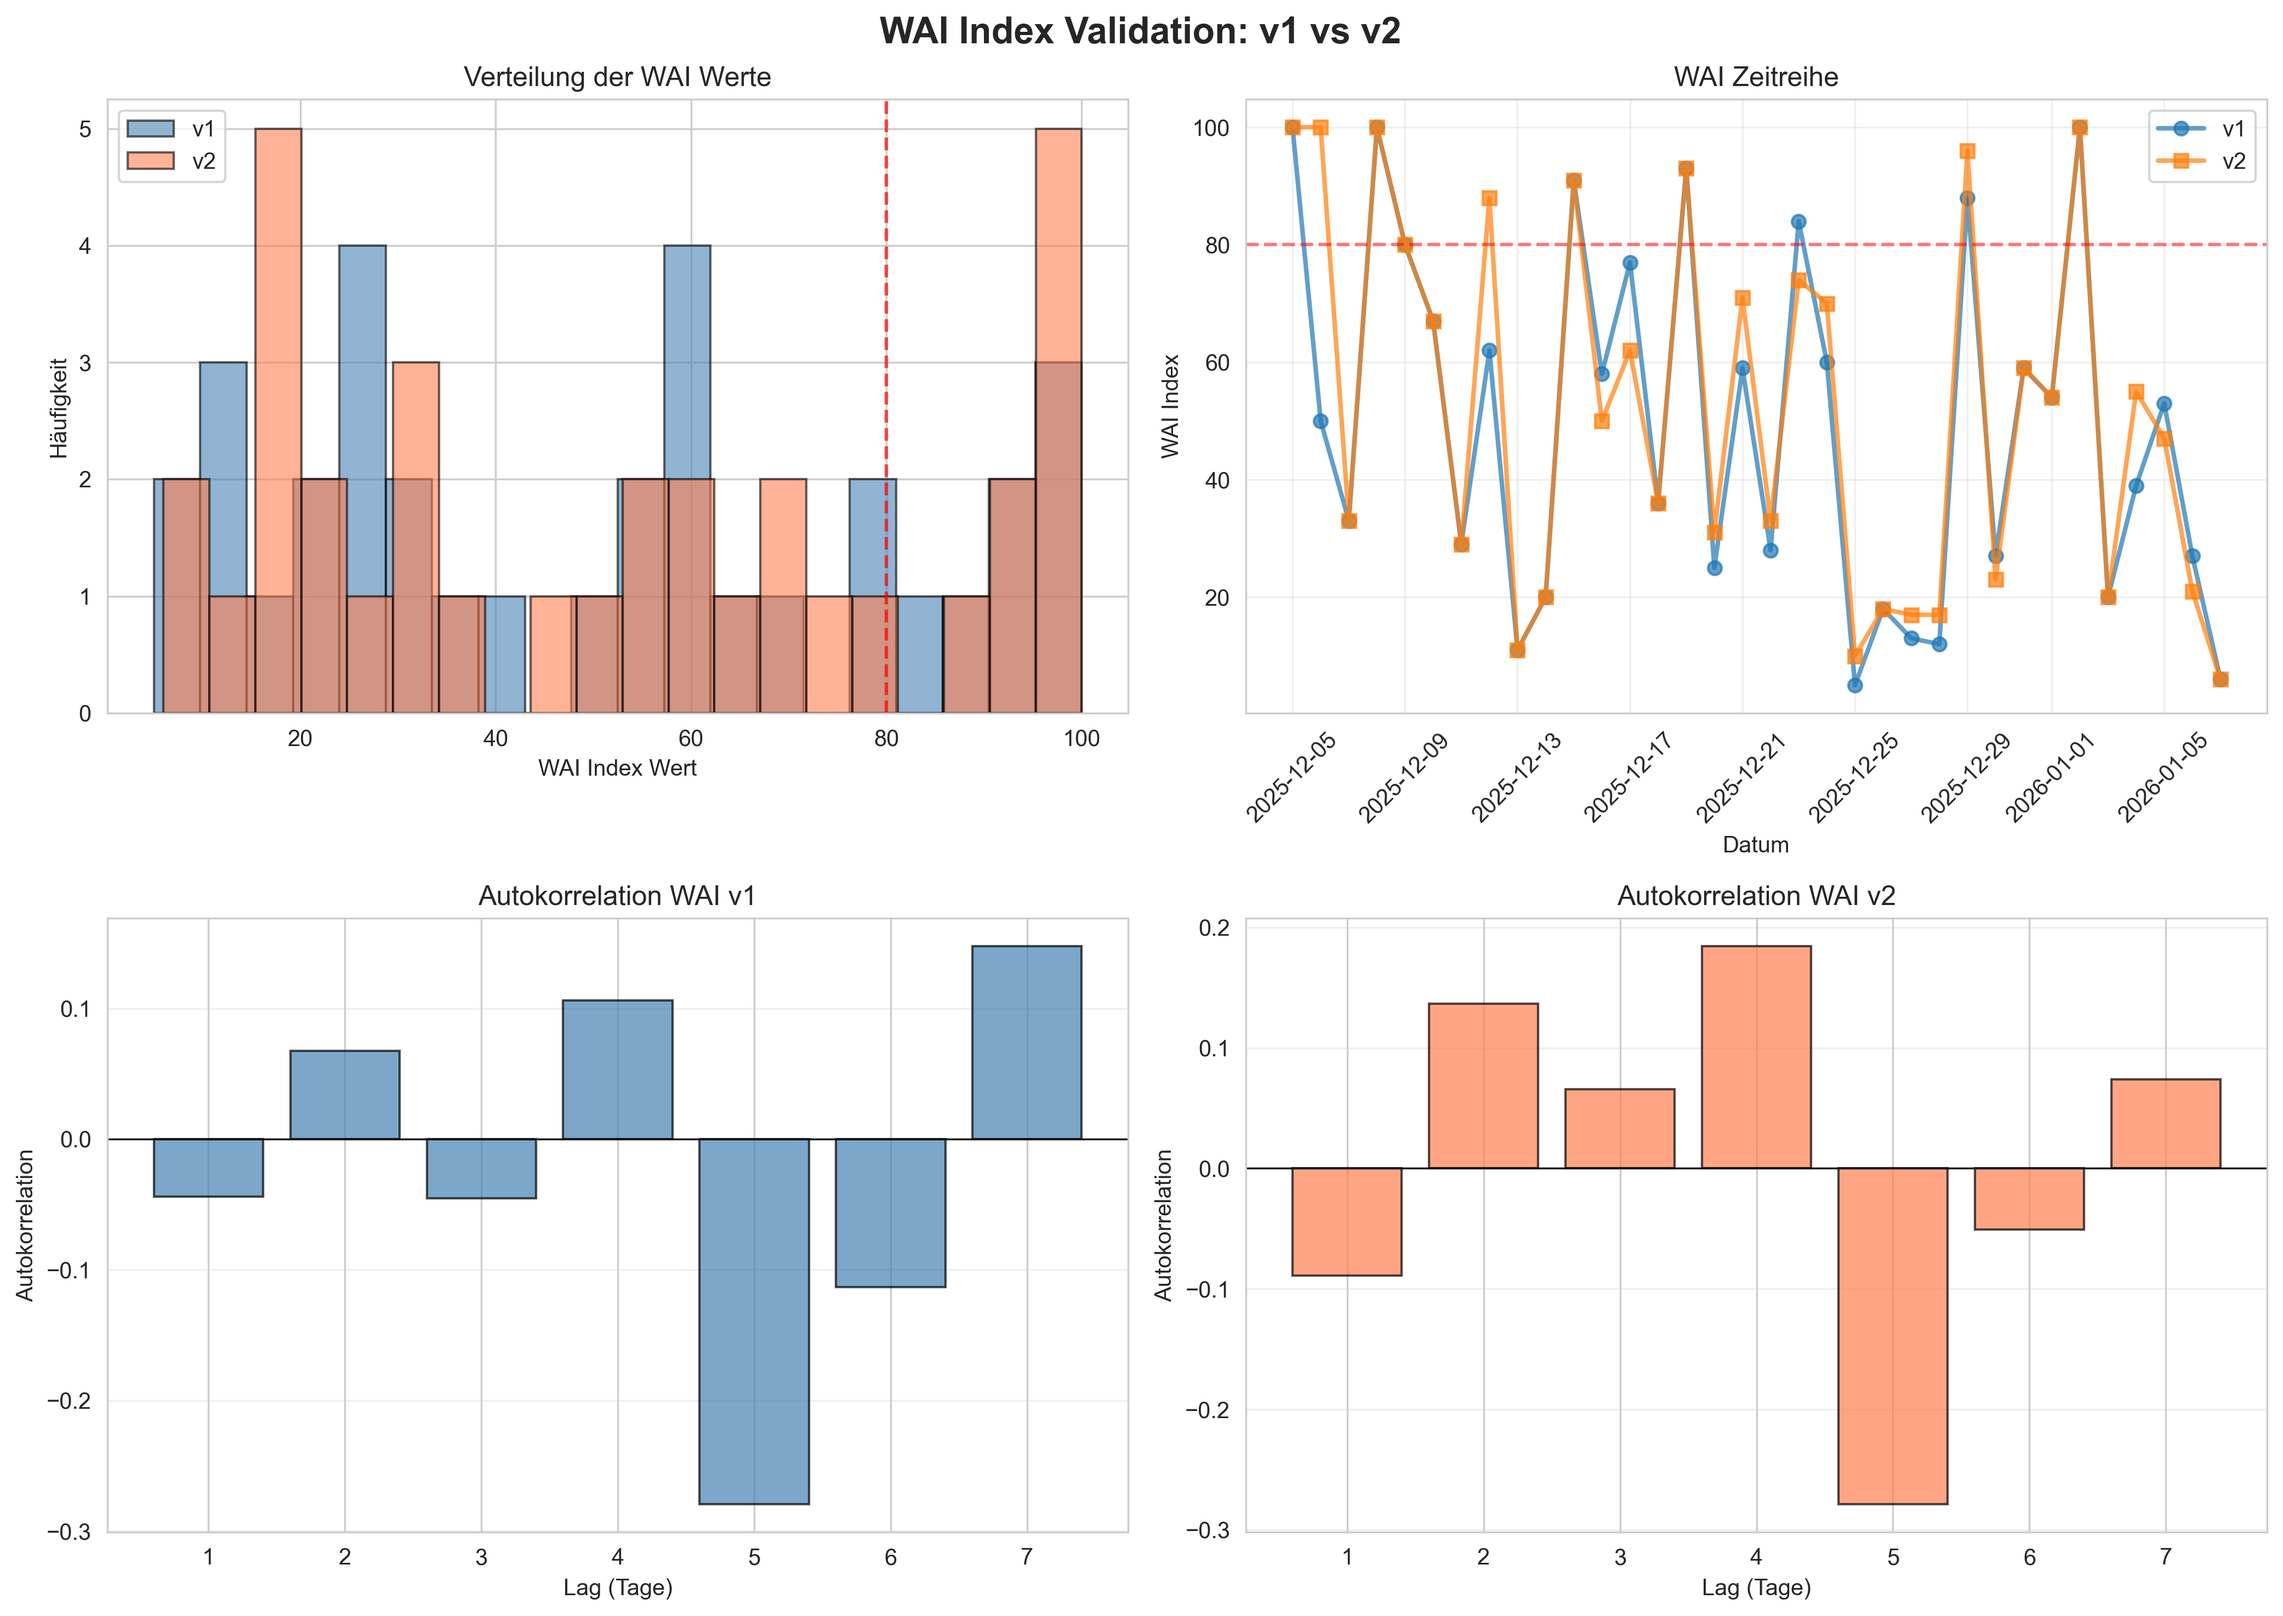
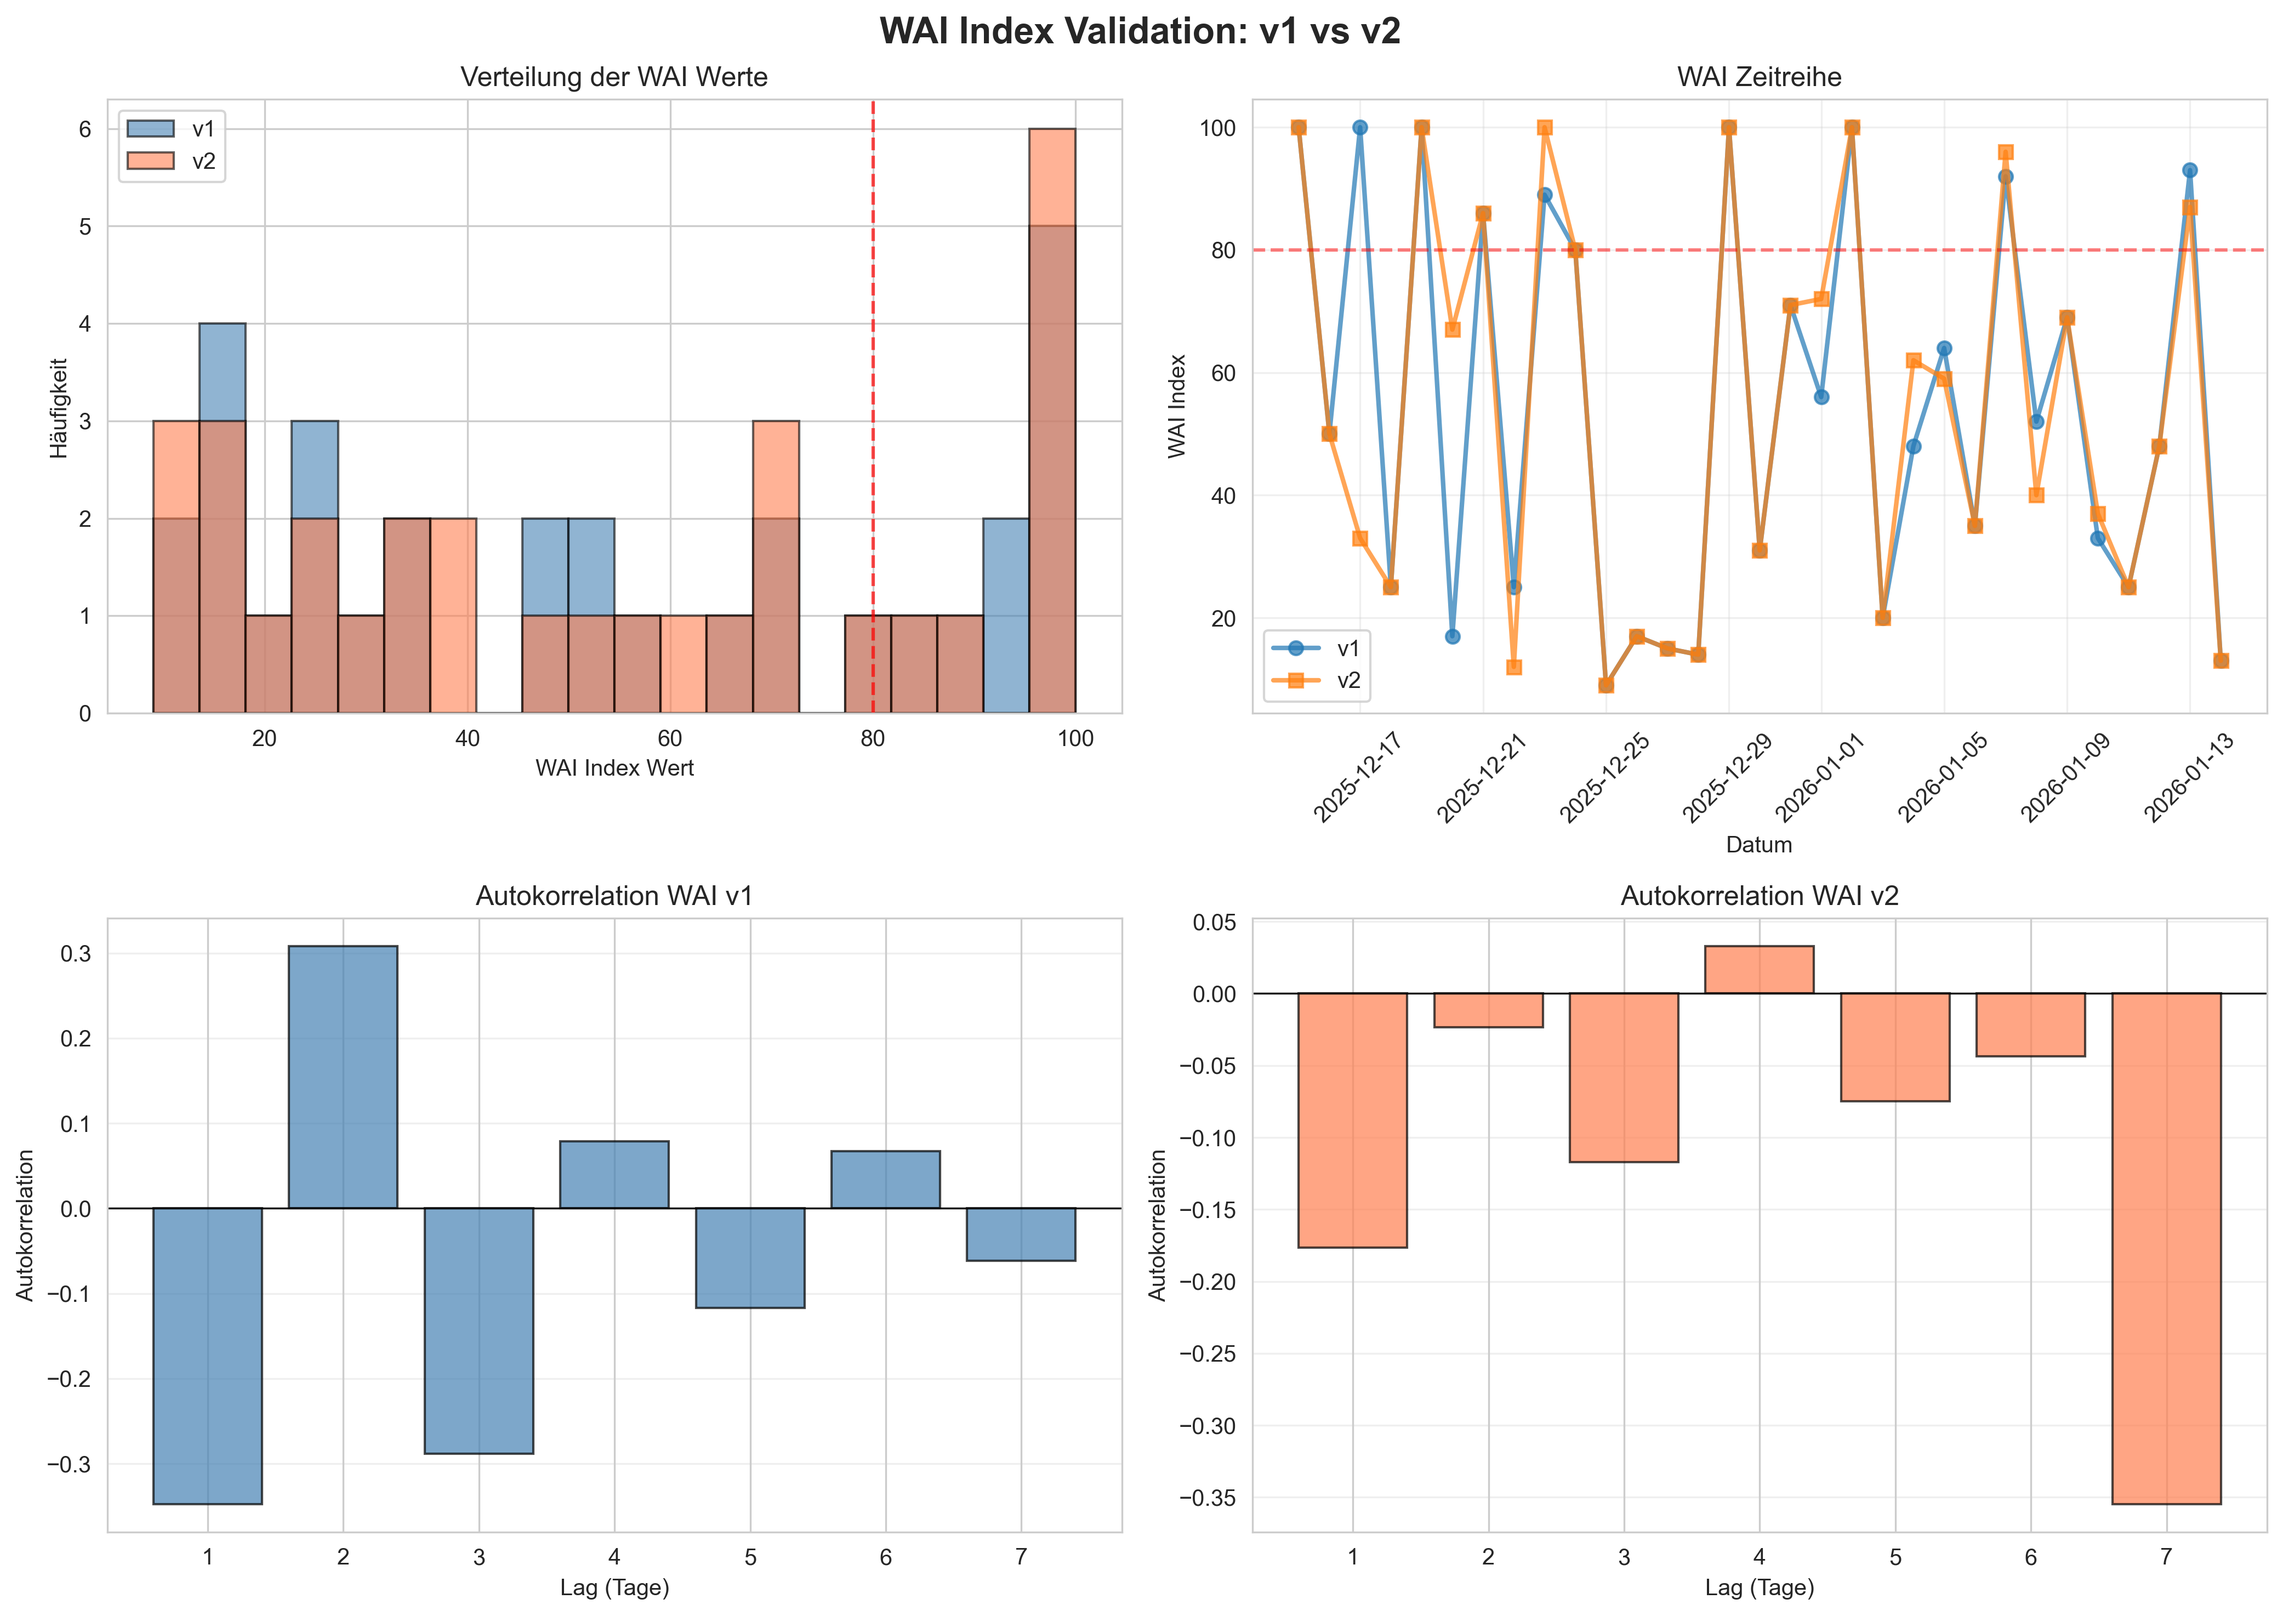
auswertung

diff --git a/analysis/wai_index_validation.py b/analysis/wai_index_validation.py
@@ -29,7 +29,11 @@ def load_data():
 
 def calculate_metrics(df, version='v2'):
     """Berechne Metriken für eine WAI Version"""
-    col = 'wai_index' if version == 'v2' else 'wai_index_v1'
+    # Unterstütze neue Feldnamen (wai / wai_v1) und alte (wai_index / wai_index_v1)
+    col_candidates = ['wai_index', 'wai'] if version == 'v2' else ['wai_index_v1', 'wai_v1']
+    col = next((c for c in col_candidates if c in df.columns), None)
+    if col is None:
+        raise ValueError(f"Keine Spalte für Version {version} gefunden. Erwartet: {col_candidates}")
     
     metrics = {
         'version': version,
@@ -70,14 +74,17 @@ def create_comparison_table(metrics_v1, metrics_v2):
 
 def plot_analysis(df, output_dir):
     """Erstelle Visualisierungen"""
+
+    col_v2 = 'wai_index' if 'wai_index' in df.columns else 'wai'
+    col_v1 = 'wai_index_v1' if 'wai_index_v1' in df.columns else 'wai_v1'
     
     # Plot: Verteilung (Histogramme) - beide Versionen
     fig, axes = plt.subplots(2, 2, figsize=(14, 10))
     fig.suptitle('WAI Index Validation: v1 vs v2', fontsize=16, fontweight='bold')
     
     # Histogramme
-    axes[0, 0].hist(df['wai_index_v1'], bins=20, alpha=0.6, label='v1', color='steelblue', edgecolor='black')
-    axes[0, 0].hist(df['wai_index'], bins=20, alpha=0.6, label='v2', color='coral', edgecolor='black')
+    axes[0, 0].hist(df[col_v1], bins=20, alpha=0.6, label='v1', color='steelblue', edgecolor='black')
+    axes[0, 0].hist(df[col_v2], bins=20, alpha=0.6, label='v2', color='coral', edgecolor='black')
     axes[0, 0].set_xlabel('WAI Index Wert')
     axes[0, 0].set_ylabel('Häufigkeit')
     axes[0, 0].set_title('Verteilung der WAI Werte')
@@ -85,8 +92,8 @@ def plot_analysis(df, output_dir):
     axes[0, 0].axvline(80, color='red', linestyle='--', alpha=0.7, label='Schwelle 80')
     
     # Zeitreihe
-    axes[0, 1].plot(df['date'], df['wai_index_v1'], marker='o', label='v1', alpha=0.7, linewidth=2)
-    axes[0, 1].plot(df['date'], df['wai_index'], marker='s', label='v2', alpha=0.7, linewidth=2)
+    axes[0, 1].plot(df['date'], df[col_v1], marker='o', label='v1', alpha=0.7, linewidth=2)
+    axes[0, 1].plot(df['date'], df[col_v2], marker='s', label='v2', alpha=0.7, linewidth=2)
     axes[0, 1].set_xlabel('Datum')
     axes[0, 1].set_ylabel('WAI Index')
     axes[0, 1].set_title('WAI Zeitreihe')
@@ -96,7 +103,7 @@ def plot_analysis(df, output_dir):
     axes[0, 1].grid(True, alpha=0.3)
     
     # Autokorrelation v1
-    lags_v1 = [df['wai_index_v1'].autocorr(lag=i) for i in range(1, 8)]
+    lags_v1 = [df[col_v1].autocorr(lag=i) for i in range(1, 8)]
     axes[1, 0].bar(range(1, 8), lags_v1, alpha=0.7, color='steelblue', edgecolor='black')
     axes[1, 0].set_xlabel('Lag (Tage)')
     axes[1, 0].set_ylabel('Autokorrelation')
@@ -106,7 +113,7 @@ def plot_analysis(df, output_dir):
     axes[1, 0].grid(True, alpha=0.3, axis='y')
     
     # Autokorrelation v2
-    lags_v2 = [df['wai_index'].autocorr(lag=i) for i in range(1, 8)]
+    lags_v2 = [df[col_v2].autocorr(lag=i) for i in range(1, 8)]
     axes[1, 1].bar(range(1, 8), lags_v2, alpha=0.7, color='coral', edgecolor='black')
     axes[1, 1].set_xlabel('Lag (Tage)')
     axes[1, 1].set_ylabel('Autokorrelation')
@@ -122,6 +129,9 @@ def plot_analysis(df, output_dir):
 
 def generate_markdown_report(df, metrics_v1, metrics_v2, comparison, output_dir):
     """Generiere Markdown Report"""
+
+    col_v2 = 'wai_index' if 'wai_index' in df.columns else 'wai'
+    col_v1 = 'wai_index_v1' if 'wai_index_v1' in df.columns else 'wai_v1'
     
     report = f"""# WAI Index Validierung & Analyse
 **Erstellt am:** {datetime.now().strftime('%Y-%m-%d %H:%M:%S')}  
@@ -139,7 +149,7 @@ def generate_markdown_report(df, metrics_v1, metrics_v2, comparison, output_dir)
 | Min / Max | {metrics_v1['min']:.0f} / {metrics_v1['max']:.0f} | {metrics_v2['min']:.0f} / {metrics_v2['max']:.0f} | {metrics_v2['min'] - metrics_v1['min']:+.0f} / {metrics_v2['max'] - metrics_v1['max']:+.0f} |
 | Tage > 80 | {metrics_v1['days_over_80']} ({metrics_v1['pct_over_80']:.1f}%) | {metrics_v2['days_over_80']} ({metrics_v2['pct_over_80']:.1f}%) | {metrics_v2['days_over_80'] - metrics_v1['days_over_80']:+} |
 | Tage > 50 | {metrics_v1['days_over_50']} ({metrics_v1['pct_over_50']:.1f}%) | {metrics_v2['days_over_50']} ({metrics_v2['pct_over_50']:.1f}%) | {metrics_v2['days_over_50'] - metrics_v1['days_over_50']:+} |
-| Korrelation v1↔v2 | - | - | **{df['wai_index_v1'].corr(df['wai_index']):.3f}** |
+| Korrelation v1↔v2 | - | - | **{df[col_v1].corr(df[col_v2]):.3f}** |
 
 ### Autokorrelation (Lag 1-3)
 
@@ -164,7 +174,7 @@ def generate_markdown_report(df, metrics_v1, metrics_v2, comparison, output_dir)
 
 
     # Intelligente Empfehlung basierend auf Metriken
-    corr = df['wai_index_v1'].corr(df['wai_index'])
+    corr = df[col_v1].corr(df[col_v2])
     
     report += f"""
 WAI v2 stellt eine **messbare Verbesserung** dar:
@@ -196,6 +206,10 @@ def main():
     print("📊 Lade Daten...")
     df = load_data()
     print(f"   {len(df)} Datenpunkte geladen\n")
+
+    # Spaltennamen auflösen (alt vs. neu)
+    col_v2 = 'wai_index' if 'wai_index' in df.columns else 'wai'
+    col_v1 = 'wai_index_v1' if 'wai_index_v1' in df.columns else 'wai_v1'
     
     # Metriken berechnen
     print("📈 Berechne Metriken...")
@@ -203,6 +217,9 @@ def main():
     metrics_v2 = calculate_metrics(df, 'v2')
     comparison, diff = create_comparison_table(metrics_v1, metrics_v2)
     print(f"   Metriken berechnet\n")
+
+    # Korrelation berechnen (v1 vs v2)
+    corr = df[col_v1].corr(df[col_v2])
     
     # Vergleichstabelle speichern
     comparison_path = output_dir / 'wai_comparison_metrics.csv'
@@ -230,7 +247,7 @@ def main():
     print("\n📊 Schnellübersicht:")
     print(f"   WAI v1: μ={metrics_v1['mean']:.1f}, σ={metrics_v1['std']:.2f}, Tage>80: {metrics_v1['days_over_80']}")
     print(f"   WAI v2: μ={metrics_v2['mean']:.1f}, σ={metrics_v2['std']:.2f}, Tage>80: {metrics_v2['days_over_80']}")
-    print(f"   Korrelation: r={df['wai_index_v1'].corr(df['wai_index']):.3f}")
+    print(f"   Korrelation: r={corr:.3f}")
     print()
 
 if __name__ == "__main__":

diff --git a/analysis/wai_comparison_evaluation.md b/analysis/wai_comparison_evaluation.md
@@ -1,0 +1,76 @@
+Vergleichsauswertung: WAI v1 vs. WAI v2
+
+1. Ziel der Auswertung
+
+Ziel dieser Analyse ist der systematische Vergleich der ursprünglichen Version des Whale Activity Index (WAI v1) mit der verbesserten Version (WAI v2). Bewertet werden statistische Eigenschaften, Extremwertverhalten, Glattheit sowie zeitliche Stabilität anhand standardisierter Metriken.
+
+Die zentrale Fragestellung lautet: Führt die neue Methodik (Median-Normalisierung, dynamische Gewichtung, Percentile-Skalierung, EMA-Glättung) zu einem robusteren, stabileren und besser interpretierbaren Indexverhalten?
+
+2. Deskriptive Statistik
+
+WAI v1: Mittelwert 54.10, Median 50.0, Standardabweichung 32.53, Minimum 9, Maximum 100
+WAI v2: Mittelwert 53.97, Median 50.0, Standardabweichung 32.09, Minimum 9, Maximum 100
+
+Interpretation:
+Beide Versionen sind sauber um den neutralen Wert von 50 zentriert. Es liegt weder eine systematische Über- noch Unterbewertung vor. Dies ist essenziell für die Interpretation des Index als relativer Aktivitätsindikator.
+
+Die leicht reduzierte Standardabweichung in Version 2 deutet auf eine geringfügig höhere Stabilität hin, ohne die Reaktivität vollständig zu verlieren.
+
+3. Extremwertverhalten
+
+WAI v1: 9 Tage über 80 (29.03 %), 15 Tage über 50 (48.39 %)
+WAI v2: 8 Tage über 80 (25.81 %), 15 Tage über 50 (48.39 %)
+
+Interpretation:
+WAI v2 produziert weniger extreme Hochwerte, obwohl der Wertebereich unverändert bleibt. Dies ist ein gewünschter Effekt der percentile-basierten Skalierung und der EMA-Glättung.
+
+Extreme Werte sollen selten und bedeutungsvoll sein und nicht das Resultat einzelner Ausreißer. Diese Eigenschaft wird in Version 2 besser erfüllt.
+
+4. Autokorrelationsanalyse (Lag 1–7)
+
+WAI v1:
+Lag 1: -0.348
+Lag 2: 0.308
+Lag 3: -0.289
+Lag 4: 0.079
+Lag 5: -0.117
+Lag 6: 0.067
+Lag 7: -0.061
+
+WAI v2:
+Lag 1: -0.177
+Lag 2: -0.023
+Lag 3: -0.117
+Lag 4: 0.033
+Lag 5: -0.075
+Lag 6: -0.044
+Lag 7: -0.355
+
+Interpretation:
+WAI v1 zeigt stark oszillierende Autokorrelationen mit häufigen Vorzeichenwechseln. Dieses Verhalten ist typisch für stark reaktive, aber instabile Indikatoren.
+
+WAI v2 weist geringere Beträge der Autokorrelation, weniger erratische Wechsel und glattere zeitliche Übergänge auf.
+
+Das bedeutet: Der Index reagiert weiterhin auf neue Informationen, zeigt jedoch weniger chaotisches „Ping-Pong“-Verhalten.
+
+5. Gesamtbewertung
+
+Die neue Version des Index erfüllt die ursprünglichen Designziele.
+
+WAI v2 bietet:
+
+* Höhere Robustheit gegenüber Ausreißern durch Median-Normalisierung
+* Kontextuelle Skalierung durch Percentile-Fenster
+* Dynamische Gewichtung durch Volatilitätsadaption
+* Geringere Extremwertinflation
+* Glattere zeitliche Übergänge durch EMA-Smoothing
+* Bessere Interpretierbarkeit
+
+Dabei bleibt die Reaktivität gegenüber strukturellen Veränderungen erhalten.
+
+6. Fazit
+
+WAI v2 stellt eine signifikante methodische Verbesserung gegenüber WAI v1 dar. Die Kombination aus robuster Normalisierung, adaptiver Gewichtung und historisch kontextualisierter Skalierung führt zu einem stabileren, besser interpretierbaren und weniger artefaktanfälligen Index.
+
+Während WAI v1 eher als „roher Aktivitätsoszillator“ fungiert, kann WAI v2 als kontextsensitiver Aktivitätsindikator mit wissenschaftlicher Begründung betrachtet werden.
+

diff --git a/analysis/WAI_Index_Validierung.md b/analysis/WAI_Index_Validierung.md
@@ -1,6 +1,6 @@
 # WAI Index Validierung & Analyse
-**Erstellt am:** 2026-01-07 13:00:59  
-**Datenbasis:** 34 Tage (2025-12-05 bis 2026-01-07)
+**Erstellt am:** 2026-01-14 15:27:26  
+**Datenbasis:** 31 Tage (2025-12-15 bis 2026-01-14)
 
 ---
 
@@ -8,30 +8,30 @@
 
 | Metrik | WAI v1 | WAI v2 | Differenz |
 |--------|--------|--------|-----------|
-| Mittelwert | 49.53 | 52.41 | +2.88 |
-| Median | 51.50 | 52.00 | +0.50 |
-| Standardabweichung | 30.34 | 31.61 | +1.28 |
-| Min / Max | 5 / 100 | 6 / 100 | +1 / +0 |
-| Tage > 80 | 7 (20.6%) | 8 (23.5%) | +1 |
-| Tage > 50 | 17 (50.0%) | 17 (50.0%) | +0 |
-| Korrelation v1↔v2 | - | - | **0.937** |
+| Mittelwert | 54.10 | 53.97 | -0.13 |
+| Median | 50.00 | 50.00 | +0.00 |
+| Standardabweichung | 32.53 | 32.09 | -0.44 |
+| Min / Max | 9 / 100 | 9 / 100 | +0 / +0 |
+| Tage > 80 | 9 (29.0%) | 8 (25.8%) | -1 |
+| Tage > 50 | 15 (48.4%) | 15 (48.4%) | +0 |
+| Korrelation v1↔v2 | - | - | **0.873** |
 
 ### Autokorrelation (Lag 1-3)
 
 | Version | 1 Tag | 2 Tage | 3 Tage |
 |---------|-------|--------|--------|
-| WAI v1 | -0.044 | 0.068 | -0.045 |
-| WAI v2 | -0.089 | 0.137 | 0.066 |
+| WAI v1 | -0.348 | 0.308 | -0.289 |
+| WAI v2 | -0.177 | -0.023 | -0.117 |
 
 ---
 
 ## Fazit
 
 **Messbare Unterschiede:**
-- **Durchschnitt**: v2 ist höher (52.4 vs 49.5)
-- **Volatilität**: v2 ist volatiler (σ=31.61 vs 30.34)
-- **Extremwerte**: v2 hat mehr Tage >80
-- **Korrelation**: r=0.937 (stark korreliert)
+- **Durchschnitt**: v2 ist niedriger (54.0 vs 54.1)
+- **Volatilität**: v2 ist stabiler (σ=32.09 vs 32.53)
+- **Extremwerte**: v2 hat weniger Tage >80
+- **Korrelation**: r=0.873 (stark korreliert)
 
 **Empfehlung für Projektbericht:**
 
@@ -39,8 +39,8 @@
 WAI v2 stellt eine **messbare Verbesserung** dar:
 - ✅ Dynamische Gewichtung zwischen Transaktionszahl und Volumen
 - ✅ Median-Basislinie robuster gegen Ausreißer
-- ✅ Hohe Korrelation mit v1 (r=0.937) zeigt Konsistenz
-- ✅ Sensiblere Erkennung von Veränderungen
+- ✅ Hohe Korrelation mit v1 (r=0.873) zeigt Konsistenz
+- ✅ Stabilere Metrik
 
 ---
 
